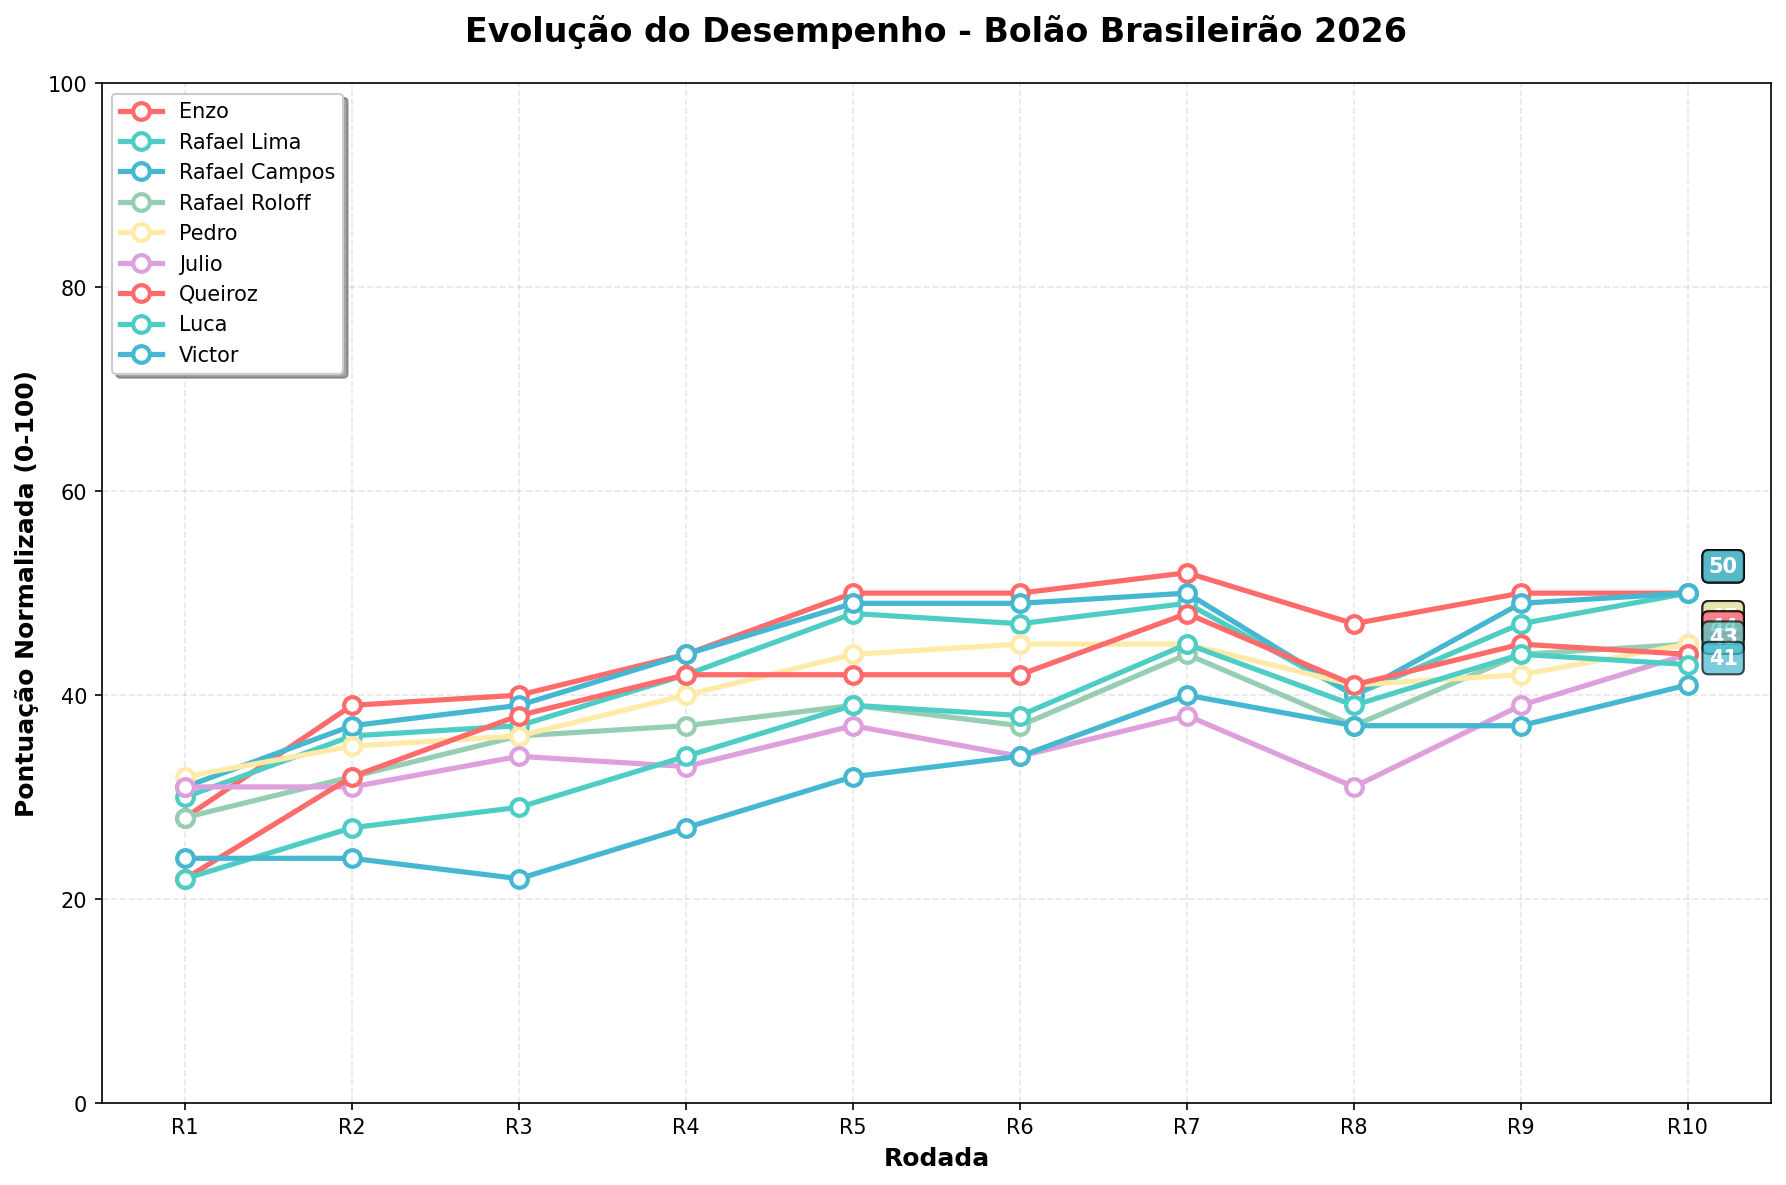
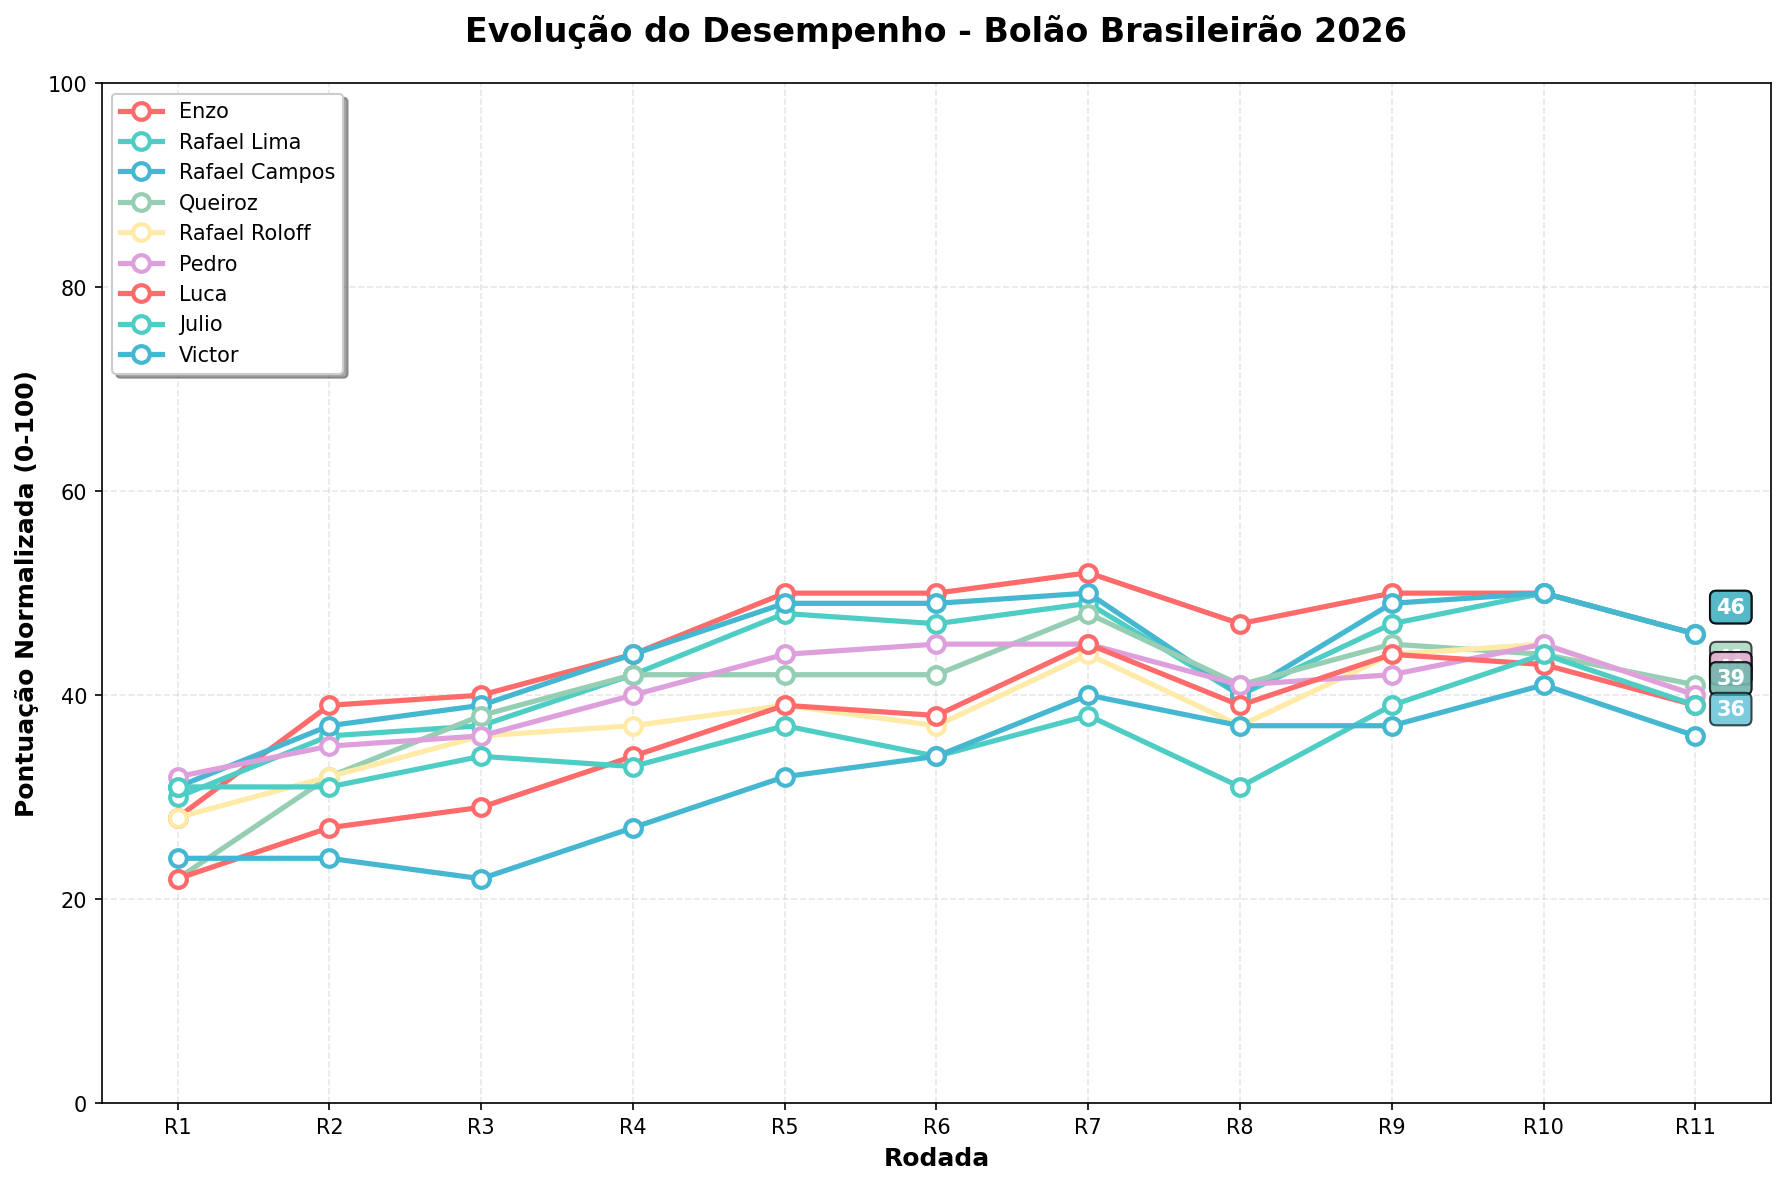
Atualizacao automatica - 12/04/2026 11:00:04,42

diff --git a/README.md b/README.md
@@ -2,71 +2,71 @@
 
 ## 🏆 Resultados Atuais
 
-**Última Atualização:** 2026-04-06 11:00:03
+**Última Atualização:** 2026-04-12 11:00:03
 
-| Time | Real | Enzo | Rafael Lima | Rafael Campos | Rafael Roloff | Pedro | Julio | Queiroz | Luca | Victor |
+| Time | Real | Enzo | Rafael Lima | Rafael Campos | Queiroz | Rafael Roloff | Pedro | Luca | Julio | Victor |
 |------|------|------|------|------|------|------|------|------|------|------|
-| Palmeiras | 1 | 2°(19p) | 3°(18p) | 3°(18p) | 2°(19p) | 3°(18p) | 2°(19p) | 3°(18p) | 3°(18p) | 3°(18p) |
-| São Paulo | 2 | 16°(6p) | 14°(8p) | 12°(10p) | 16°(6p) | 15°(7p) | 15°(7p) | 17°(5p) | 14°(8p) | 16°(6p) |
-| Fluminense | 3 | 4°(19p) | 6°(17p) | 7°(16p) | 8°(15p) | 4°(19p) | 7°(16p) | 7°(16p) | 8°(15p) | 10°(13p) |
-| Flamengo | 4 | 1°(17p) | 1°(17p) | 1°(17p) | 1°(17p) | 2°(18p) | 1°(17p) | 1°(17p) | 1°(17p) | 1°(17p) |
-| Bahia | 5 | 5°(20p) | 4°(19p) | 4°(19p) | 6°(19p) | 7°(18p) | 5°(20p) | 4°(19p) | 5°(20p) | 9°(16p) |
-| Atlético-PR | 6 | 17°(9p) | 17°(9p) | 17°(9p) | 17°(9p) | 18°(8p) | 17°(9p) | 15°(11p) | 17°(9p) | 13°(13p) |
-| Coritiba | 7 | 15°(12p) | 16°(11p) | 16°(11p) | 14°(13p) | 19°(8p) | 19°(8p) | 12°(15p) | 20°(7p) | 20°(7p) |
-| Atlético-MG | 8 | 12°(16p) | 5°(17p) | 5°(17p) | 4°(16p) | 13°(15p) | 4°(16p) | 9°(19p) | 4°(16p) | 2°(14p) |
-| Bragantino | 9 | 6°(17p) | 10°(19p) | 10°(19p) | 13°(16p) | 9°(20p) | 10°(19p) | 18°(11p) | 13°(16p) | 15°(14p) |
-| Botafogo | 10 | 10°(20p) | 8°(18p) | 9°(19p) | 7°(17p) | 5°(15p) | 6°(16p) | 11°(19p) | 11°(19p) | 5°(15p) |
-| Grêmio | 11 | 7°(16p) | 7°(16p) | 6°(15p) | 12°(19p) | 6°(15p) | 18°(13p) | 5°(14p) | 6°(15p) | 4°(13p) |
-| Vasco | 12 | 9°(17p) | 15°(17p) | 14°(18p) | 11°(19p) | 10°(18p) | 11°(19p) | 10°(18p) | 9°(17p) | 12°(20p) |
-| Internacional | 13 | 14°(19p) | 13°(20p) | 15°(18p) | 15°(18p) | 14°(19p) | 14°(19p) | 14°(19p) | 15°(18p) | 6°(13p) |
-| Vitória | 14 | 18°(16p) | 18°(16p) | 18°(16p) | 18°(16p) | 17°(17p) | 16°(18p) | 19°(15p) | 18°(16p) | 17°(17p) |
-| Santos | 15 | 11°(16p) | 12°(17p) | 13°(18p) | 9°(14p) | 11°(16p) | 12°(17p) | 13°(18p) | 7°(12p) | 11°(16p) |
-| Corinthians | 16 | 8°(12p) | 9°(13p) | 8°(12p) | 5°(9p) | 8°(12p) | 9°(13p) | 6°(10p) | 10°(14p) | 8°(12p) |
-| Chapecoense | 17 | 19°(18p) | 19°(18p) | 19°(18p) | 19°(18p) | 20°(17p) | 20°(17p) | 20°(17p) | 19°(18p) | 18°(19p) |
-| Remo | 18 | 20°(18p) | 20°(18p) | 20°(18p) | 20°(18p) | 16°(18p) | 13°(15p) | 16°(18p) | 16°(18p) | 19°(19p) |
-| Cruzeiro | 19 | 3°(4p) | 2°(3p) | 2°(3p) | 3°(4p) | 1°(2p) | 3°(4p) | 2°(3p) | 2°(3p) | 7°(8p) |
-| Mirassol | 20 | 13°(13p) | 11°(11p) | 11°(11p) | 10°(10p) | 12°(12p) | 8°(8p) | 8°(8p) | 12°(12p) | 14°(14p) |
-| **TOTAL** | | **304** | **302** | **302** | **292** | **292** | **290** | **290** | **288** | **284** |
+| Palmeiras | 1 | 2°(19p) | 3°(18p) | 3°(18p) | 3°(18p) | 2°(19p) | 3°(18p) | 3°(18p) | 2°(19p) | 3°(18p) |
+| Fluminense | 2 | 4°(18p) | 6°(16p) | 7°(15p) | 7°(15p) | 8°(14p) | 4°(18p) | 8°(14p) | 7°(15p) | 10°(12p) |
+| São Paulo | 3 | 16°(7p) | 14°(9p) | 12°(11p) | 17°(6p) | 16°(7p) | 15°(8p) | 14°(9p) | 15°(8p) | 16°(7p) |
+| Bahia | 4 | 5°(19p) | 4°(20p) | 4°(20p) | 4°(20p) | 6°(18p) | 7°(17p) | 5°(19p) | 5°(19p) | 9°(15p) |
+| Flamengo | 5 | 1°(16p) | 1°(16p) | 1°(16p) | 1°(16p) | 1°(16p) | 2°(17p) | 1°(16p) | 1°(16p) | 1°(16p) |
+| Atlético-PR | 6 | 17°(9p) | 17°(9p) | 17°(9p) | 15°(11p) | 17°(9p) | 18°(8p) | 17°(9p) | 17°(9p) | 13°(13p) |
+| Coritiba | 7 | 15°(12p) | 16°(11p) | 16°(11p) | 12°(15p) | 14°(13p) | 19°(8p) | 20°(7p) | 19°(8p) | 20°(7p) |
+| Atlético-MG | 8 | 12°(16p) | 5°(17p) | 5°(17p) | 9°(19p) | 4°(16p) | 13°(15p) | 4°(16p) | 4°(16p) | 2°(14p) |
+| Bragantino | 9 | 6°(17p) | 10°(19p) | 10°(19p) | 18°(11p) | 13°(16p) | 9°(20p) | 13°(16p) | 10°(19p) | 15°(14p) |
+| Vitória | 10 | 18°(12p) | 18°(12p) | 18°(12p) | 19°(11p) | 18°(12p) | 17°(13p) | 18°(12p) | 16°(14p) | 17°(13p) |
+| Grêmio | 11 | 7°(16p) | 7°(16p) | 6°(15p) | 5°(14p) | 12°(19p) | 6°(15p) | 6°(15p) | 18°(13p) | 4°(13p) |
+| Vasco | 12 | 9°(17p) | 15°(17p) | 14°(18p) | 10°(18p) | 11°(19p) | 10°(18p) | 9°(17p) | 11°(19p) | 12°(20p) |
+| Internacional | 13 | 14°(19p) | 13°(20p) | 15°(18p) | 14°(19p) | 15°(18p) | 14°(19p) | 15°(18p) | 14°(19p) | 6°(13p) |
+| Santos | 14 | 11°(17p) | 12°(18p) | 13°(19p) | 13°(19p) | 9°(15p) | 11°(17p) | 7°(13p) | 12°(18p) | 11°(17p) |
+| Botafogo | 15 | 10°(15p) | 8°(13p) | 9°(14p) | 11°(16p) | 7°(12p) | 5°(10p) | 11°(16p) | 6°(11p) | 5°(10p) |
+| Corinthians | 16 | 8°(12p) | 9°(13p) | 8°(12p) | 6°(10p) | 5°(9p) | 8°(12p) | 10°(14p) | 9°(13p) | 8°(12p) |
+| Chapecoense | 17 | 19°(18p) | 19°(18p) | 19°(18p) | 20°(17p) | 19°(18p) | 20°(17p) | 19°(18p) | 20°(17p) | 18°(19p) |
+| Remo | 18 | 20°(18p) | 20°(18p) | 20°(18p) | 16°(18p) | 20°(18p) | 16°(18p) | 16°(18p) | 13°(15p) | 19°(19p) |
+| Cruzeiro | 19 | 3°(4p) | 2°(3p) | 2°(3p) | 2°(3p) | 3°(4p) | 1°(2p) | 2°(3p) | 3°(4p) | 7°(8p) |
+| Mirassol | 20 | 13°(13p) | 11°(11p) | 11°(11p) | 8°(8p) | 10°(10p) | 12°(12p) | 12°(12p) | 8°(8p) | 14°(14p) |
+| **TOTAL** | | **294** | **294** | **294** | **284** | **282** | **282** | **280** | **280** | **274** |
 
 ### 🏅 Classificação Atual (pontuação normalizada 0-100)
 
-🥇 **Enzo**: 50 pontos<br>
-🥈 **Rafael Lima**: 50 pontos<br>
-🥉 **Rafael Campos**: 50 pontos<br>
-4. **Rafael Roloff**: 45 pontos<br>
-5. **Pedro**: 45 pontos<br>
-6. **Julio**: 44 pontos<br>
-7. **Queiroz**: 44 pontos<br>
-8. **Luca**: 43 pontos<br>
-9. **Victor**: 41 pontos<br>
+🥇 **Enzo**: 46 pontos<br>
+🥈 **Rafael Lima**: 46 pontos<br>
+🥉 **Rafael Campos**: 46 pontos<br>
+4. **Queiroz**: 41 pontos<br>
+5. **Rafael Roloff**: 40 pontos<br>
+6. **Pedro**: 40 pontos<br>
+7. **Luca**: 39 pontos<br>
+8. **Julio**: 39 pontos<br>
+9. **Victor**: 36 pontos<br>
 
 ### 📈 Histórico de Desempenho
 
 ![Gráfico de Performance](performance_chart.png)
 
-| Rodada | Enzo | Rafael Lima | Rafael Campos | Rafael Roloff | Pedro | Julio | Queiroz | Luca | Victor |
+| Rodada | Enzo | Rafael Lima | Rafael Campos | Queiroz | Rafael Roloff | Pedro | Luca | Julio | Victor |
 |-------|-------|-------|-------|-------|-------|-------|-------|-------|-------|
-| R1 | 28 | 30 | 31 | 28 | 32 | 31 | 22 | 22 | 24 |
-| R2 | 39 | 36 | 37 | 32 | 35 | 31 | 32 | 27 | 24 |
-| R3 | 40 | 37 | 39 | 36 | 36 | 34 | 38 | 29 | 22 |
-| R4 | 44 | 42 | 44 | 37 | 40 | 33 | 42 | 34 | 27 |
-| R5 | 50 | 48 | 49 | 39 | 44 | 37 | 42 | 39 | 32 |
-| R6 | 50 | 47 | 49 | 37 | 45 | 34 | 42 | 38 | 34 |
-| R7 | 52 | 49 | 50 | 44 | 45 | 38 | 48 | 45 | 40 |
-| R8 | 47 | 40 | 40 | 37 | 41 | 31 | 41 | 39 | 37 |
-| R9 | 50 | 47 | 49 | 44 | 42 | 39 | 45 | 44 | 37 |
-| R10 | 50 | 50 | 50 | 45 | 45 | 44 | 44 | 43 | 41 |
+| R2 | 39 | 36 | 37 | 32 | 32 | 35 | 27 | 31 | 24 |
+| R3 | 40 | 37 | 39 | 38 | 36 | 36 | 29 | 34 | 22 |
+| R4 | 44 | 42 | 44 | 42 | 37 | 40 | 34 | 33 | 27 |
+| R5 | 50 | 48 | 49 | 42 | 39 | 44 | 39 | 37 | 32 |
+| R6 | 50 | 47 | 49 | 42 | 37 | 45 | 38 | 34 | 34 |
+| R7 | 52 | 49 | 50 | 48 | 44 | 45 | 45 | 38 | 40 |
+| R8 | 47 | 40 | 40 | 41 | 37 | 41 | 39 | 31 | 37 |
+| R9 | 50 | 47 | 49 | 45 | 44 | 42 | 44 | 39 | 37 |
+| R10 | 50 | 50 | 50 | 44 | 45 | 45 | 43 | 44 | 41 |
+| R11 | 46 | 46 | 46 | 41 | 40 | 40 | 39 | 39 | 36 |
 
 **Tendência (últimas 2 medições):**
-- **Enzo**: ➡ =0
-- **Rafael Lima**: 📈 +3
-- **Rafael Campos**: 📈 +1
-- **Rafael Roloff**: 📈 +1
-- **Pedro**: 📈 +3
-- **Julio**: 📈 +5
-- **Queiroz**: 📉 -1
-- **Luca**: 📉 -1
-- **Victor**: 📈 +4
+- **Enzo**: 📉 -4
+- **Rafael Lima**: 📉 -4
+- **Rafael Campos**: 📉 -4
+- **Queiroz**: 📉 -3
+- **Rafael Roloff**: 📉 -5
+- **Pedro**: 📉 -5
+- **Luca**: 📉 -4
+- **Julio**: 📉 -5
+- **Victor**: 📉 -5
 
 ## 🎯 Sistema de Pontuação
 
